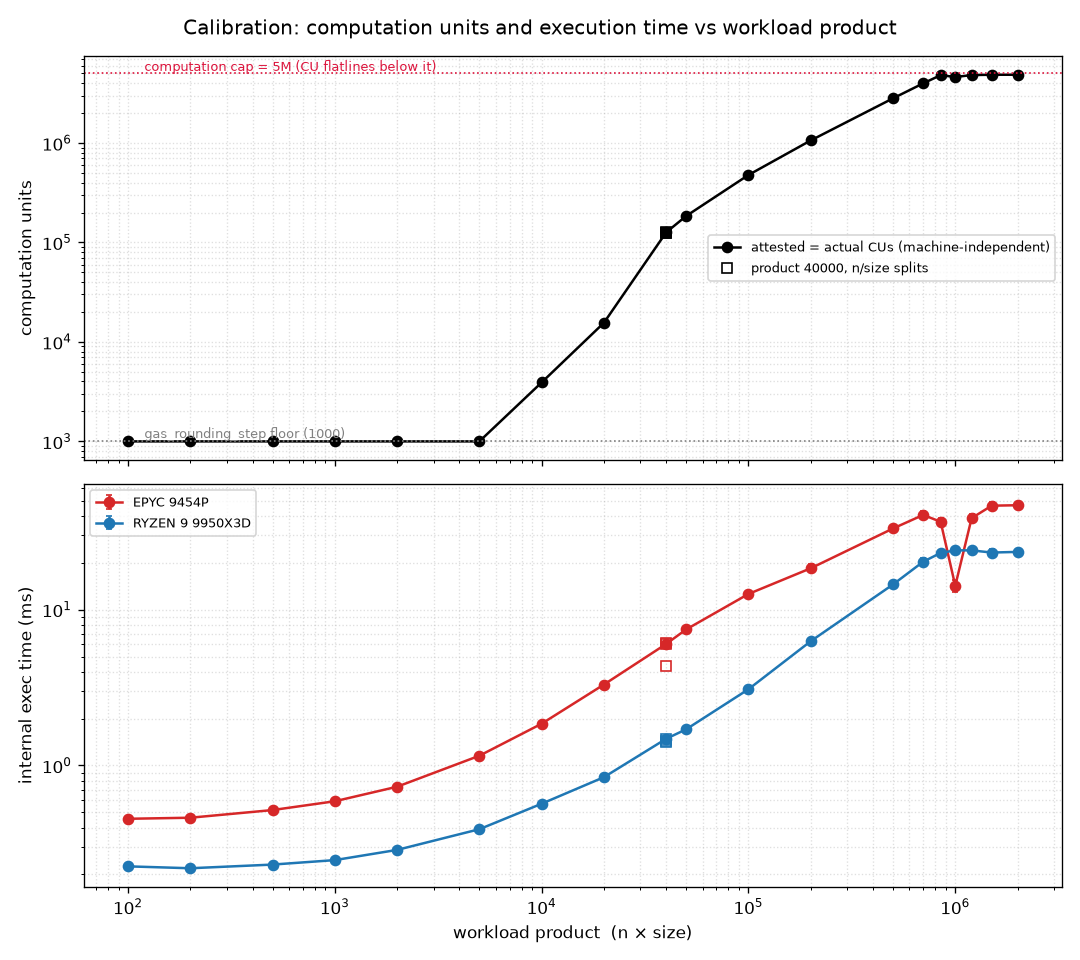
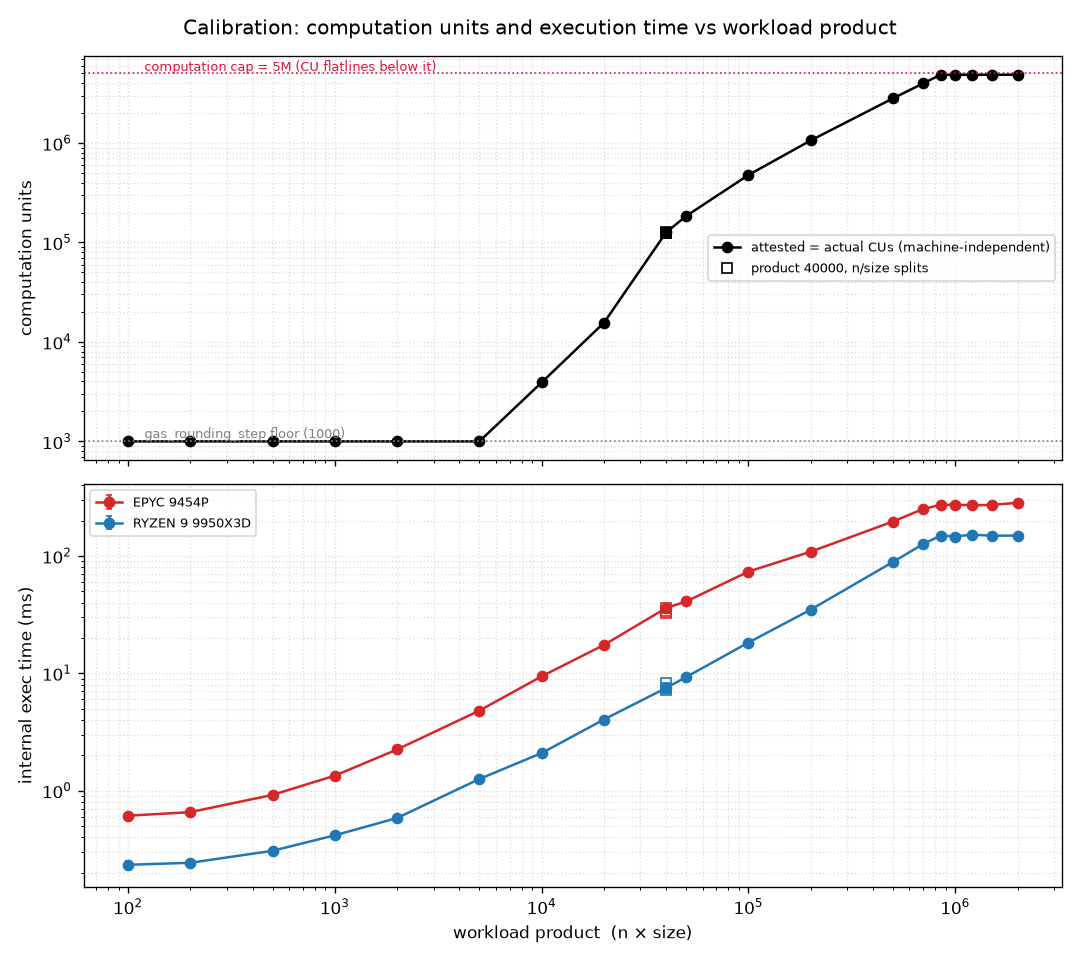
feat(h2): rewrite calibration findings from the re-measured datasets

diff --git a/stress-attestation-sequencer/h2/probe-test.md b/stress-attestation-sequencer/h2/probe-test.md
@@ -8,8 +8,8 @@ and set the per-object limits for the H2 mode comparison; see `README.md`.
 
 The grid is a geometric ladder of the product `n·size` (size fixed at 100,
 varying n, product 100 → 2M) plus a split-invariance check (product 40000 at
-three n/size splits). Each point ran 20 s at 5 QPS, giving ≈1,800–4,400
-execution samples. The same 21-point sweep ran on two machines:
+three n/size splits). Each point ran 20 s at 5 QPS (100 transactions), the same
+on both machines. The same 21-point sweep ran on two machines:
 
 | machine | CPU | arch | boost | cores |
 | --- | --- | --- | --- | --- |
@@ -19,6 +19,52 @@ execution samples. The same 21-point sweep ran on two machines:
 `compare_machines.py` reproduces the cross-machine table below;
 `plot_calibration.py` reproduces the figures.
 
+## How the probe measures (and what changed since the first run)
+
+The client is the `stress` benchmark running **in-docker on the private
+network**, submitting **directly to the validators** via the transaction driver
+— the attested `submit_tx` path (attestation happens in the validator's
+handler regardless of the caller). Every measured value comes from
+validator-side Prometheus histograms, pooled over the 4 validators and
+differenced over the point's measurement window:
+
+- **Computation units** — `attested_computation_units` /
+  `actual_computation_units`, `Δ_sum / Δ_count`. Only attested user
+  transactions touch these histograms, and the workload is deterministic, so
+  the mean is the exact per-transaction value.
+- **Internal execution time** — `authority_state_internal_execution_latency_user`,
+  pure post-consensus execution, **user transactions only**. This histogram was
+  added for the probe: the pre-existing all-transactions histogram pools the
+  network's constant stream of system transactions (commit prologues etc.),
+  which outnumber a low-rate workload ~30:1 and drag the mean toward their
+  sub-millisecond cost.
+
+Correctness machinery, added after the first calibration run went wrong in
+instructive ways:
+
+- The window opens only after Prometheus has scraped the validators, and closes
+  only once the user-transaction execution counter stays flat across
+  consecutive scrapes — so the window is complete on any hardware, with no
+  tuned sleeps.
+- A row is recorded only if the window holds ≥400 of the ~412 expected samples
+  (100 transactions × 4 validators + client setup), i.e. ≥97 % delivery; an
+  under-delivered point fails loudly and is retried instead of writing a
+  plausible-looking but polluted row.
+- Every sweep starts from a freshly bootstrapped network and tears it down at
+  the end, so no run can inherit another run's backlog.
+
+Every row below has exactly 412 samples.
+
+> [!WARNING]
+> The July 6 numbers in this file's earlier revision had two defects. (1) The
+> execution-time column was pooled from the all-transactions histogram, so it
+> mostly averaged system transactions — e.g. the WS ceiling was reported as
+> ≈23 ms when the true per-transaction cost is ≈149 ms; the cross-machine
+> ratios were likewise computed on diluted values. (2) The EPYC ceiling rows
+> were polluted by window contamination. The computation-unit columns were
+> exact then and are bit-identical now — only the execution-time analysis is
+> superseded by this revision.
+
 ---
 
 ## Results
@@ -27,61 +73,60 @@ execution samples. The same 21-point sweep ran on two machines:
 
 | n | size | product | CU | exec mean (ms) | exec sem (ms) | samples |
 | --- | --- | --- | --- | --- | --- | --- |
-| 1 | 100 | 100 | 1,000 | 0.455 | 0.006 | 1812 |
-| 2 | 100 | 200 | 1,000 | 0.462 | 0.005 | 3125 |
-| 5 | 100 | 500 | 1,000 | 0.518 | 0.012 | 3254 |
-| 10 | 100 | 1,000 | 1,000 | 0.590 | 0.017 | 3246 |
-| 20 | 100 | 2,000 | 1,000 | 0.731 | 0.017 | 3231 |
-| 50 | 100 | 5,000 | 1,000 | 1.155 | 0.030 | 3258 |
-| 100 | 100 | 10,000 | 3,913 | 1.853 | 0.072 | 3256 |
-| 200 | 100 | 20,000 | 15,563 | 3.304 | 0.149 | 3245 |
-| 100 | 400 | 40,000 | 123,220 | 4.371 | 0.184 | 4430 |
-| 200 | 200 | 40,000 | 124,301 | 6.105 | 0.270 | 3238 |
-| 400 | 100 | 40,000 | 126,243 | 6.018 | 0.276 | 3260 |
-| 500 | 100 | 50,000 | 184,495 | 7.460 | 0.332 | 3255 |
-| 1000 | 100 | 100,000 | 476,728 | 12.592 | 0.502 | 3252 |
-| 2000 | 100 | 200,000 | 1,060,223 | 18.403 | 1.085 | 3260 |
-| 5000 | 100 | 500,000 | 2,810,709 | 33.120 | 1.332 | 3259 |
-| 7000 | 100 | 700,000 | 3,977,699 | 40.476 | 2.214 | 3386 |
-| 8500 | 100 | 850,000 | 4,807,731 | 36.556 | 2.159 | 3122 |
-| 10000 | 100 | 1,000,000 | 4,605,342 | 14.213 | 1.240 | 3909 |
-| 12000 | 100 | 1,200,000 | 4,817,110 | 38.604 | 2.187 | 3159 |
-| 15000 | 100 | 1,500,000 | 4,854,398 | 46.387 | 2.362 | 3262 |
-| 20000 | 100 | 2,000,000 | 4,854,398 | 46.697 | 2.371 | 3244 |
+| 1 | 100 | 100 | 1,000 | 0.610 | 0.034 | 412 |
+| 2 | 100 | 200 | 1,000 | 0.654 | 0.016 | 412 |
+| 5 | 100 | 500 | 1,000 | 0.918 | 0.055 | 412 |
+| 10 | 100 | 1,000 | 1,000 | 1.339 | 0.081 | 412 |
+| 20 | 100 | 2,000 | 1,000 | 2.237 | 0.039 | 412 |
+| 50 | 100 | 5,000 | 1,000 | 4.797 | 0.108 | 412 |
+| 100 | 100 | 10,000 | 3,913 | 9.404 | 0.268 | 412 |
+| 200 | 100 | 20,000 | 15,563 | 17.399 | 0.437 | 412 |
+| 100 | 400 | 40,000 | 123,330 | 33.937 | 0.473 | 412 |
+| 200 | 200 | 40,000 | 124,301 | 32.288 | 0.516 | 412 |
+| 400 | 100 | 40,000 | 126,243 | 35.938 | 0.902 | 412 |
+| 500 | 100 | 50,000 | 184,495 | 40.862 | 0.909 | 412 |
+| 1000 | 100 | 100,000 | 476,728 | 73.439 | 0.994 | 412 |
+| 2000 | 100 | 200,000 | 1,060,223 | 108.637 | 3.278 | 412 |
+| 5000 | 100 | 500,000 | 2,810,709 | 196.266 | 3.288 | 412 |
+| 7000 | 100 | 700,000 | 3,977,699 | 251.242 | 5.208 | 412 |
+| 8500 | 100 | 850,000 | 4,854,398 | 272.078 | 5.483 | 412 |
+| 10000 | 100 | 1,000,000 | 4,854,398 | 273.460 | 5.430 | 412 |
+| 12000 | 100 | 1,200,000 | 4,854,398 | 269.867 | 5.785 | 412 |
+| 15000 | 100 | 1,500,000 | 4,854,398 | 271.866 | 5.489 | 412 |
+| 20000 | 100 | 2,000,000 | 4,854,398 | 283.513 | 5.051 | 412 |
 
 ### WS Ryzen 9 9950X3D
 
 | n | size | product | CU | exec mean (ms) | exec sem (ms) | samples |
 | --- | --- | --- | --- | --- | --- | --- |
-| 1 | 100 | 100 | 1,000 | 0.225 | 0.002 | 3256 |
-| 2 | 100 | 200 | 1,000 | 0.219 | 0.001 | 3148 |
-| 5 | 100 | 500 | 1,000 | 0.231 | 0.001 | 3262 |
-| 10 | 100 | 1,000 | 1,000 | 0.247 | 0.002 | 3257 |
-| 20 | 100 | 2,000 | 1,000 | 0.287 | 0.004 | 3262 |
-| 50 | 100 | 5,000 | 1,000 | 0.390 | 0.018 | 3258 |
-| 100 | 100 | 10,000 | 3,913 | 0.569 | 0.018 | 3149 |
-| 200 | 100 | 20,000 | 15,563 | 0.841 | 0.029 | 3256 |
-| 100 | 400 | 40,000 | 123,330 | 1.429 | 0.062 | 3154 |
-| 200 | 200 | 40,000 | 124,301 | 1.423 | 0.068 | 3259 |
-| 400 | 100 | 40,000 | 126,243 | 1.483 | 0.069 | 3262 |
-| 500 | 100 | 50,000 | 184,495 | 1.707 | 0.080 | 3258 |
-| 1000 | 100 | 100,000 | 476,728 | 3.083 | 0.129 | 3264 |
-| 2000 | 100 | 200,000 | 1,060,223 | 6.266 | 0.264 | 3147 |
-| 5000 | 100 | 500,000 | 2,810,709 | 14.491 | 0.705 | 3260 |
-| 7000 | 100 | 700,000 | 3,977,699 | 20.292 | 1.111 | 3256 |
-| 8500 | 100 | 850,000 | 4,854,398 | 23.079 | 1.105 | 3261 |
-| 10000 | 100 | 1,000,000 | 4,854,398 | 23.998 | 1.146 | 3146 |
-| 12000 | 100 | 1,200,000 | 4,854,398 | 23.970 | 1.141 | 3148 |
-| 15000 | 100 | 1,500,000 | 4,854,398 | 23.218 | 1.117 | 3261 |
-| 20000 | 100 | 2,000,000 | 4,854,398 | 23.440 | 1.107 | 3254 |
+| 1 | 100 | 100 | 1,000 | 0.233 | 0.017 | 412 |
+| 2 | 100 | 200 | 1,000 | 0.242 | 0.002 | 412 |
+| 5 | 100 | 500 | 1,000 | 0.306 | 0.004 | 412 |
+| 10 | 100 | 1,000 | 1,000 | 0.415 | 0.010 | 412 |
+| 20 | 100 | 2,000 | 1,000 | 0.583 | 0.018 | 412 |
+| 50 | 100 | 5,000 | 1,000 | 1.254 | 0.075 | 412 |
+| 100 | 100 | 10,000 | 3,913 | 2.086 | 0.047 | 412 |
+| 200 | 100 | 20,000 | 15,563 | 4.030 | 0.089 | 412 |
+| 100 | 400 | 40,000 | 123,330 | 7.208 | 0.159 | 412 |
+| 200 | 200 | 40,000 | 124,301 | 8.214 | 0.222 | 412 |
+| 400 | 100 | 40,000 | 126,243 | 7.487 | 0.178 | 412 |
+| 500 | 100 | 50,000 | 184,495 | 9.275 | 0.236 | 412 |
+| 1000 | 100 | 100,000 | 476,728 | 18.247 | 0.309 | 412 |
+| 2000 | 100 | 200,000 | 1,060,223 | 34.826 | 0.409 | 412 |
+| 5000 | 100 | 500,000 | 2,810,709 | 88.812 | 2.141 | 412 |
+| 7000 | 100 | 700,000 | 3,977,699 | 126.158 | 2.596 | 412 |
+| 8500 | 100 | 850,000 | 4,854,398 | 148.915 | 1.778 | 412 |
+| 10000 | 100 | 1,000,000 | 4,854,398 | 146.229 | 1.938 | 412 |
+| 12000 | 100 | 1,200,000 | 4,854,398 | 151.727 | 1.702 | 412 |
+| 15000 | 100 | 1,500,000 | 4,854,398 | 148.533 | 1.790 | 412 |
+| 20000 | 100 | 2,000,000 | 4,854,398 | 148.998 | 1.776 | 412 |
 
 > [!NOTE]
-> At the ceiling (product ≥ 850k) every transaction aborts out-of-gas, so the
-> 20 s window pools capped slow txs (≈4.85M CU) with tiny setup txs (1,000 CU).
-> WS runs the slow txs fast enough to keep its windows clean (CU pins at
-> 4,854,398 across all five plateau points); the slower EPYC catches more setup
-> txs, so its ceiling CU/exec scatter — `product 1M` is a clear outlier. Read the
-> ceiling from WS; treat EPYC's plateau numbers as noisy.
+> At the ceiling (product ≥ 850k) every transaction aborts out-of-gas at the
+> metering cap; the abort still costs the full execution time, which is what
+> the plateau rows measure. Unlike the July run, the ceiling rows are clean on
+> both machines (the drain and the delivery guard keep each window complete
+> and uncontaminated).
 
 ---
 
@@ -102,9 +147,9 @@ to calibrate against.
 
 **2. The product is the cost axis; the n/size split barely matters.** At product
 40,000 the three splits (100×400, 200×200, 400×100) give CUs within 2.4 %
-(123,330 / 124,301 / 126,243) and exec times within ≈6 %. So `n·size` sets the
-cost; more vectors at equal product cost marginally more. This validates the
-product as the single W5 cost axis.
+(123,330 / 124,301 / 126,243) and exec times within ≈11 % on both machines. So
+`n·size` sets the cost; more vectors at equal product cost marginally more.
+This validates the product as the single W5 cost axis.
 
 ![CUs and execution time vs product](results/summary_plots/cu_exec_vs_product.png)
 
@@ -114,66 +159,82 @@ the curve; the top five rungs (850k–2M) flatline just under the 5M computation
 cap (red). Bottom: internal execution time vs product, per machine (both to
 product 2M).*
 
-**3. CUs are machine-independent; execution time is not.** Through the
-completing range (product ≤ 700k) every CU matches to the digit across both
-machines — computation units are protocol-defined gas metering, not wall-clock.
-Execution time, in contrast, is the single-threaded Move-VM cost, so it tracks
-per-core performance:
+**3. CUs are machine-independent; execution time is not.** Every CU matches to
+the digit across both machines — and across node builds and client setups: the
+same values came out bit-identical before and after a rebase of the node, and
+with the client submitting via the fullnode or directly to validators.
+Computation units are protocol-defined gas metering, not wall-clock. Execution
+time, in contrast, is the single-threaded Move-VM cost, so it tracks per-core
+performance:
 
 | product | n×size | CU | EPYC exec (ms) | WS exec (ms) | WS/EPYC |
 | --- | --- | --- | --- | --- | --- |
-| 100 | 1×100 | 1,000 | 0.455 | 0.225 | 0.50 |
-| 200 | 2×100 | 1,000 | 0.462 | 0.219 | 0.47 |
-| 500 | 5×100 | 1,000 | 0.518 | 0.231 | 0.45 |
-| 1,000 | 10×100 | 1,000 | 0.590 | 0.247 | 0.42 |
-| 2,000 | 20×100 | 1,000 | 0.731 | 0.287 | 0.39 |
-| 5,000 | 50×100 | 1,000 | 1.155 | 0.390 | 0.34 |
-| 10,000 | 100×100 | 3,913 | 1.853 | 0.569 | 0.31 |
-| 20,000 | 200×100 | 15,563 | 3.304 | 0.841 | 0.25 |
-| 40,000 | 100×400 | 123,330 | 4.371 | 1.429 | 0.33 |
-| 40,000 | 200×200 | 124,301 | 6.105 | 1.423 | 0.23 |
-| 40,000 | 400×100 | 126,243 | 6.018 | 1.483 | 0.25 |
-| 50,000 | 500×100 | 184,495 | 7.460 | 1.707 | 0.23 |
-| 100,000 | 1000×100 | 476,728 | 12.592 | 3.083 | 0.24 |
-| 200,000 | 2000×100 | 1,060,223 | 18.403 | 6.266 | 0.34 |
-| 500,000 | 5000×100 | 2,810,709 | 33.120 | 14.491 | 0.44 |
-| 700,000 | 7000×100 | 3,977,699 | 40.476 | 20.292 | 0.50 |
-| 850,000 | 8500×100 | 4,854,398 | 36.556 | 23.079 | 0.63 |
-| 1,000,000 | 10000×100 | 4,854,398 | 14.213 | 23.998 | 1.69 |
-| 1,200,000 | 12000×100 | 4,854,398 | 38.604 | 23.970 | 0.62 |
-| 1,500,000 | 15000×100 | 4,854,398 | 46.387 | 23.218 | 0.50 |
-| 2,000,000 | 20000×100 | 4,854,398 | 46.697 | 23.440 | 0.50 |
+| 100 | 1×100 | 1,000 | 0.610 | 0.233 | 0.38 |
+| 200 | 2×100 | 1,000 | 0.654 | 0.242 | 0.37 |
+| 500 | 5×100 | 1,000 | 0.918 | 0.306 | 0.33 |
+| 1,000 | 10×100 | 1,000 | 1.339 | 0.415 | 0.31 |
+| 2,000 | 20×100 | 1,000 | 2.237 | 0.583 | 0.26 |
+| 5,000 | 50×100 | 1,000 | 4.797 | 1.254 | 0.26 |
+| 10,000 | 100×100 | 3,913 | 9.404 | 2.086 | 0.22 |
+| 20,000 | 200×100 | 15,563 | 17.399 | 4.030 | 0.23 |
+| 40,000 | 100×400 | 123,330 | 33.937 | 7.208 | 0.21 |
+| 40,000 | 200×200 | 124,301 | 32.288 | 8.214 | 0.25 |
+| 40,000 | 400×100 | 126,243 | 35.938 | 7.487 | 0.21 |
+| 50,000 | 500×100 | 184,495 | 40.862 | 9.275 | 0.23 |
+| 100,000 | 1000×100 | 476,728 | 73.439 | 18.247 | 0.25 |
+| 200,000 | 2000×100 | 1,060,223 | 108.637 | 34.826 | 0.32 |
+| 500,000 | 5000×100 | 2,810,709 | 196.266 | 88.812 | 0.45 |
+| 700,000 | 7000×100 | 3,977,699 | 251.242 | 126.158 | 0.50 |
+| 850,000 | 8500×100 | 4,854,398 | 272.078 | 148.915 | 0.55 |
+| 1,000,000 | 10000×100 | 4,854,398 | 273.460 | 146.229 | 0.53 |
+| 1,200,000 | 12000×100 | 4,854,398 | 269.867 | 151.727 | 0.56 |
+| 1,500,000 | 15000×100 | 4,854,398 | 271.866 | 148.533 | 0.55 |
+| 2,000,000 | 20000×100 | 4,854,398 | 283.513 | 148.998 | 0.53 |
 
-Through the completing range the WS runs 2.0–4.3× faster per transaction, and
-the ratio is U-shaped rather than flat:
+The WS runs 1.8–4.8× faster per transaction, and the ratio is U-shaped rather
+than flat:
 
-- **Fixed-overhead floor** (product ≤ 500): ratio ≈ 0.45–0.50 (WS ≈2× faster).
-  Exec here is mostly per-tx overhead (≈0.22 ms WS vs ≈0.46 ms EPYC).
-- **Compute-bound middle** (product 20k–100k): ratio dips to ≈ 0.23–0.25 (WS
-  ≈4× faster). Raw Move-VM compute dominates and the WS's higher clock and
-  newer core win big.
-- **Large tail** (product 500k, CU 2.8M): ratio climbs back to ≈ 0.44.
-  Consistent with the working set outgrowing cache and the tail becoming
-  memory-bandwidth bound, where the EPYC's many-channel server memory competes
-  better and offsets the WS's clock edge. (The U-shape is solid; the mechanism
-  is inference.)
+- **Fixed-overhead floor** (product ≤ 1,000): ratio ≈ 0.31–0.38 (WS ≈2.6–3.2×
+  faster). Exec here is mostly per-tx overhead (≈0.23 ms WS vs ≈0.61 ms EPYC).
+- **Compute-bound middle** (product 10k–100k): ratio dips to ≈ 0.21–0.25 (WS
+  ≈4–4.8× faster). Raw Move-VM compute dominates and the WS's higher clock,
+  newer core, and 3D V-Cache win big — well beyond the ≈1.5× clock ratio alone.
+- **Large tail** (product ≥ 500k, CU ≥ 2.8M): ratio climbs back to ≈ 0.45–0.56
+  (WS ≈1.8–2.2× faster). Consistent with the working set outgrowing cache and
+  the tail becoming memory-bandwidth bound, where the EPYC's many-channel
+  server memory competes better and offsets the WS's clock edge. (The U-shape
+  is solid; the mechanism is inference.)
 
-At the ceiling (product ≥ 850k) both machines cap at the same 4,854,398 CU, but
-those rows aren't cleanly comparable: every tx aborts out-of-gas and the fixed
-window pools a variable mix of capped and setup txs (see the note above). WS
-stays clean (exec ≈23 ms flat); EPYC scatters (37–47 ms) with `product 1M` a
-clear outlier — so ignore the ceiling ratios.
+At the ceiling both machines are flat and clean: WS ≈146–152 ms, EPYC
+≈270–284 ms across all five plateau rungs.
 
 ![Execution time vs CUs](results/summary_plots/exec_vs_cu.png)
 
-*Internal execution time vs computation units, per machine. The vertical cluster
-at CU = 1,000 is the gas-rounding floor: exec time still rises with the real
-work (the product) while the billed CU stays pinned at the floor. The points
-piled at CU ≈ 4.85M are the ceiling plateau; EPYC's scatter there is windowing
-noise (finding 3).*
+*Internal execution time vs computation units, per machine. The vertical
+cluster at CU = 1,000 is the gas-rounding floor: exec time still rises with the
+real work (the product) while the billed CU stays pinned at the floor. The
+points piled at CU ≈ 4.85M are the ceiling plateau.*
+
+**4. At ceiling costs, even 5 QPS is heavy load for the attested submit path.**
+A byproduct of getting the probe reliable, relevant to the H2/H3 experiment
+design. With attestation on, every submitted transaction is executed *twice or
+more* on the network's critical path: a full pre-consensus dry-run on the
+receiving validator (`attest_transaction`, ≈ the same cost as execution), the
+post-consensus execution on every validator, and — when the client waits on a
+fullnode — once more during checkpoint replay. At the ceiling that chain is
+≈1.5–2 s per transaction on the EPYC, and a closed-loop client whose
+back-pressure is a small in-flight budget silently under-delivers once
+responses cross its threshold (delivery collapsed to 0–75 of 100 transactions
+before the probe moved to direct-to-validator submission, which removes the
+fullnode from the response chain). Retries of a submission pay the attestation
+dry-run again — there is no attestation cache by digest — so an overloaded
+submit path attracts *more* attestation work. For the mode-comparison runs
+this means: heavy-CU workloads stress the attested path at rates that look
+trivially low on paper, and client throughput must be read together with
+delivery counts, never assumed from the target rate.
 
 The takeaway for cross-machine reading: computation units transfer exactly, but
 per-transaction latency does not. The EPYC's strength is core count (48c) for
 parallel throughput, not per-tx speed — so it lags the high-clock desktop on
-anything gated on single-transaction execution (e.g. checkpoint-creation lag at
-low concurrency).
+anything gated on single-transaction execution, by 2× at the ceiling and up to
+almost 5× in the compute-bound middle of the range.
